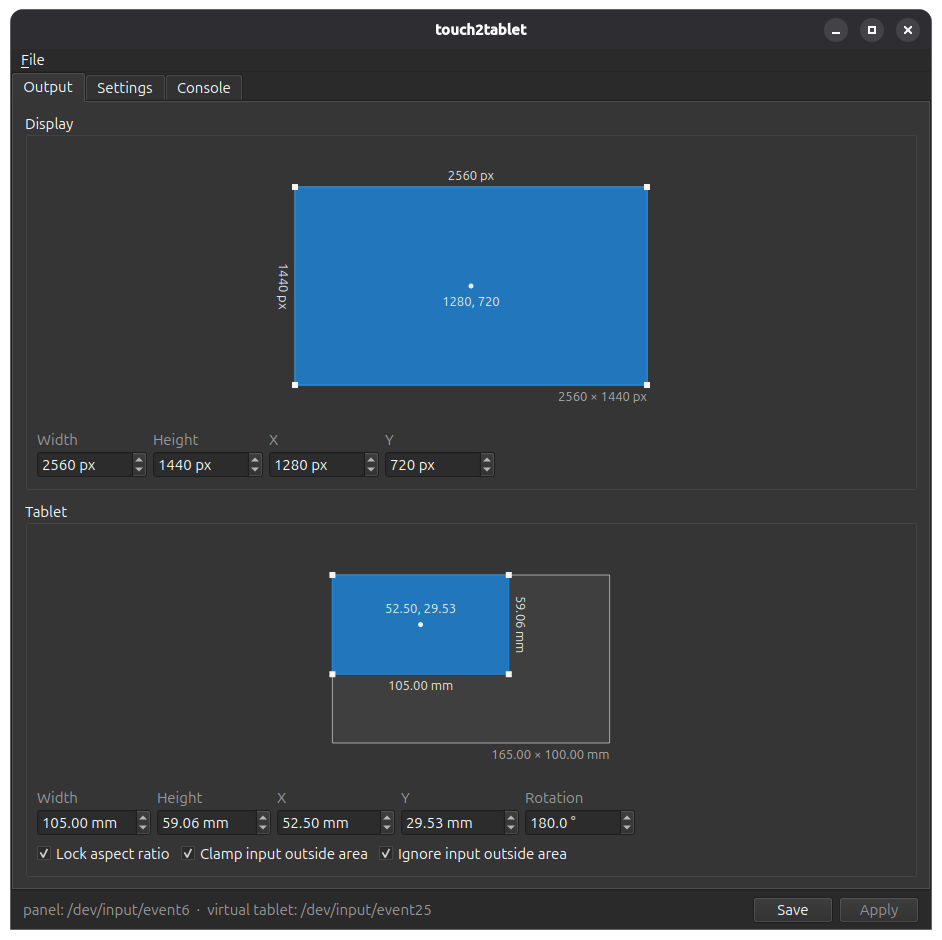
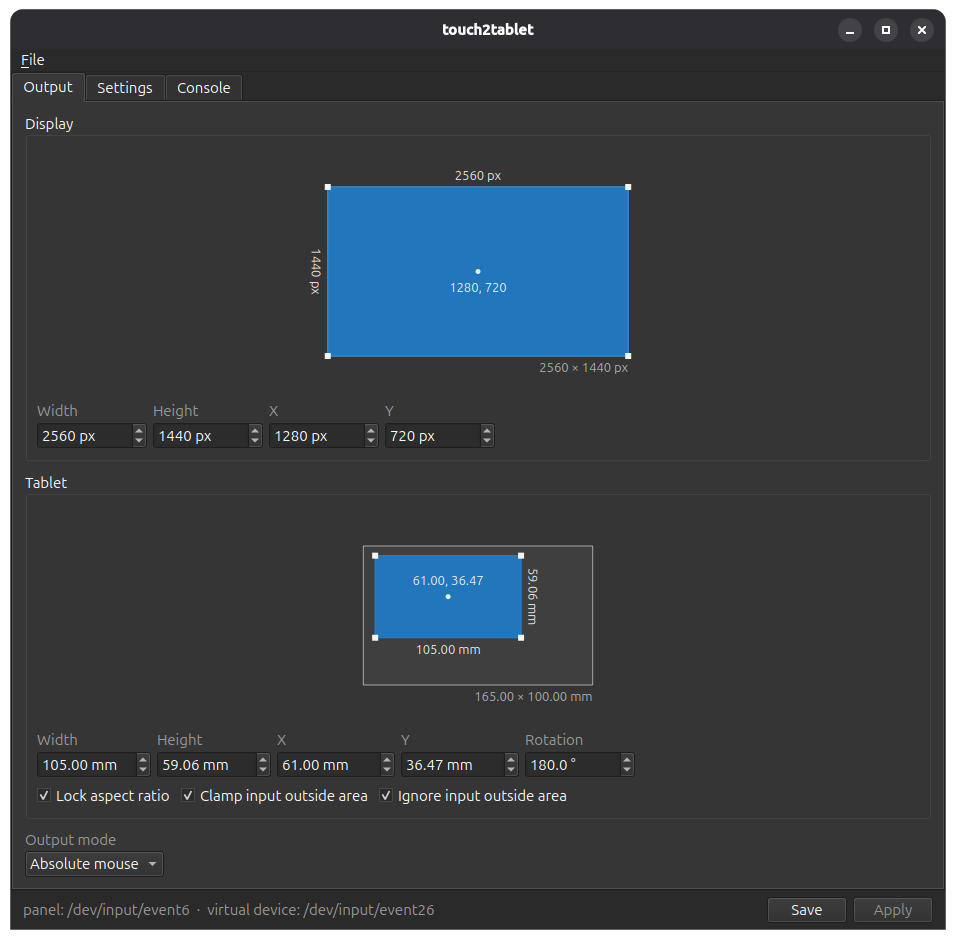
Update GUI screenshot

diff --git a/README.md b/README.md
@@ -17,21 +17,20 @@ See [Supported Panels](docs/supported-panels.md) for compatible devices and how 
 ## Quick Start (Linux)
 
 You need an x86_64 distribution from 2022 or later with udev, a systemd user session and libevdev.
-Download the latest release and run its installer (it asks for sudo once, to add a udev rule):
+Download the latest release and run its installer (needs sudo for udev rule):
 
 ```bash
 curl -L https://github.com/jonathan-lor/touch2tablet/releases/latest/download/touch2tablet-linux-x86_64.tar.gz | tar xz
 ./touch2tablet/install.sh
 ```
 
-Run the same commands again to update. To build from source instead, see
-[CONTRIBUTING.md](CONTRIBUTING.md).
+Run the same commands again to update. 
 
 Plug in a supported panel and the service should grab it and present "touch2tablet Absolute
 Mouse" ("touch2tablet Pen Tablet" in [pen mode](#output-modes)). Open **touch2tablet** from the
 application menu or run `touch2tablet` to edit the mapping.
 
-The daemon runs as a systemd user service:
+touch2tablet daemon runs as a systemd user service:
 
 ```bash
 systemctl --user status touch2tablet
@@ -42,23 +41,7 @@ systemctl --user disable --now touch2tablet     # back to plain touchscreen beha
 
 ## Settings and Presets
 
-Settings live in `~/.config/touch2tablet/settings.json` (`%LOCALAPPDATA%\touch2tablet\settings.json` on Windows).
-
-```
-display       {width, height, width_mm, height_mm, output}  monitor size in px and mm
-display_area  {width, height, x, y}                         px, center-based
-tablet        {width, height}                               glass size in mm, from panels.json
-tablet_area   {width, height, x, y, rotation}               mm, center-based, degrees clockwise
-clip, limit   bools                                         see How It Works
-lock_aspect   bool                                          GUI hint only
-output_mode   "mouse" or "pen"                              see Output Modes
-```
-
-`display.output` is for a Windows monitor (empty means the primary one). Linux ignores it.
-
-Presets are settings files in the `presets` folder next to the settings file. **File > Save as
-preset...** writes one and **File > Presets** applies one. A preset can be partial, e.g. only
-`tablet_area`.
+Settings live in `~/.config/touch2tablet/settings.json` on Linux and `%LOCALAPPDATA%\touch2tablet\settings.json` on Windows.
 
 ## How It Works
 
@@ -71,27 +54,19 @@ a touchscreen. The daemon:
 3. scales the result into the display area,
 4. and moves the virtual mouse or pen there.
 
-Output always stays on the display. With `clip`, a touch outside the tablet area is held at the
-area's nearest edge. With `limit`, a stroke that starts outside the tablet area is ignored until
-*every* finger has lifted.
-
 ### Touch Behavior
 
 Only the first finger controls the pointer! Additional contacts won't affect the stroke. The
-finger acts as a held left button (a pressed pen tip in pen mode) with no pressure, hover or
-right click. When it lifts, the stroke ends and any fingers still on the panel are ignored
+finger acts as a held left button with no pressure, hover or right click.
+When it lifts, the stroke ends and any fingers still on the panel are ignored
 until all of them have lifted.
 
 ### Output Modes
 
 `output_mode` (**Output mode** in the GUI) sets what applications see:
 
-- `mouse` (default): an absolute mouse, which works wherever a mouse does. On Wayland,
-  applications that lock the pointer for relative motion, such as games with a raw or high
-  precision mouse option, get no movement from it so turn that option off. A left-handed mouse
-  setting turns taps into right clicks.
-- `pen` (Linux only): a pen tablet, for applications that read pen input. Some applications
-  treat pen input differently from a mouse, or not at all.
+- `mouse` (default): an absolute mouse. **This is what you should use for osu!**
+- `pen` (Linux only): a pen tablet for applications that read pen input.
 
 In mouse mode the compositor spreads the device over the whole desktop, so with several monitors
 set `display` to the whole desktop and place `display_area` on the monitor you want.
